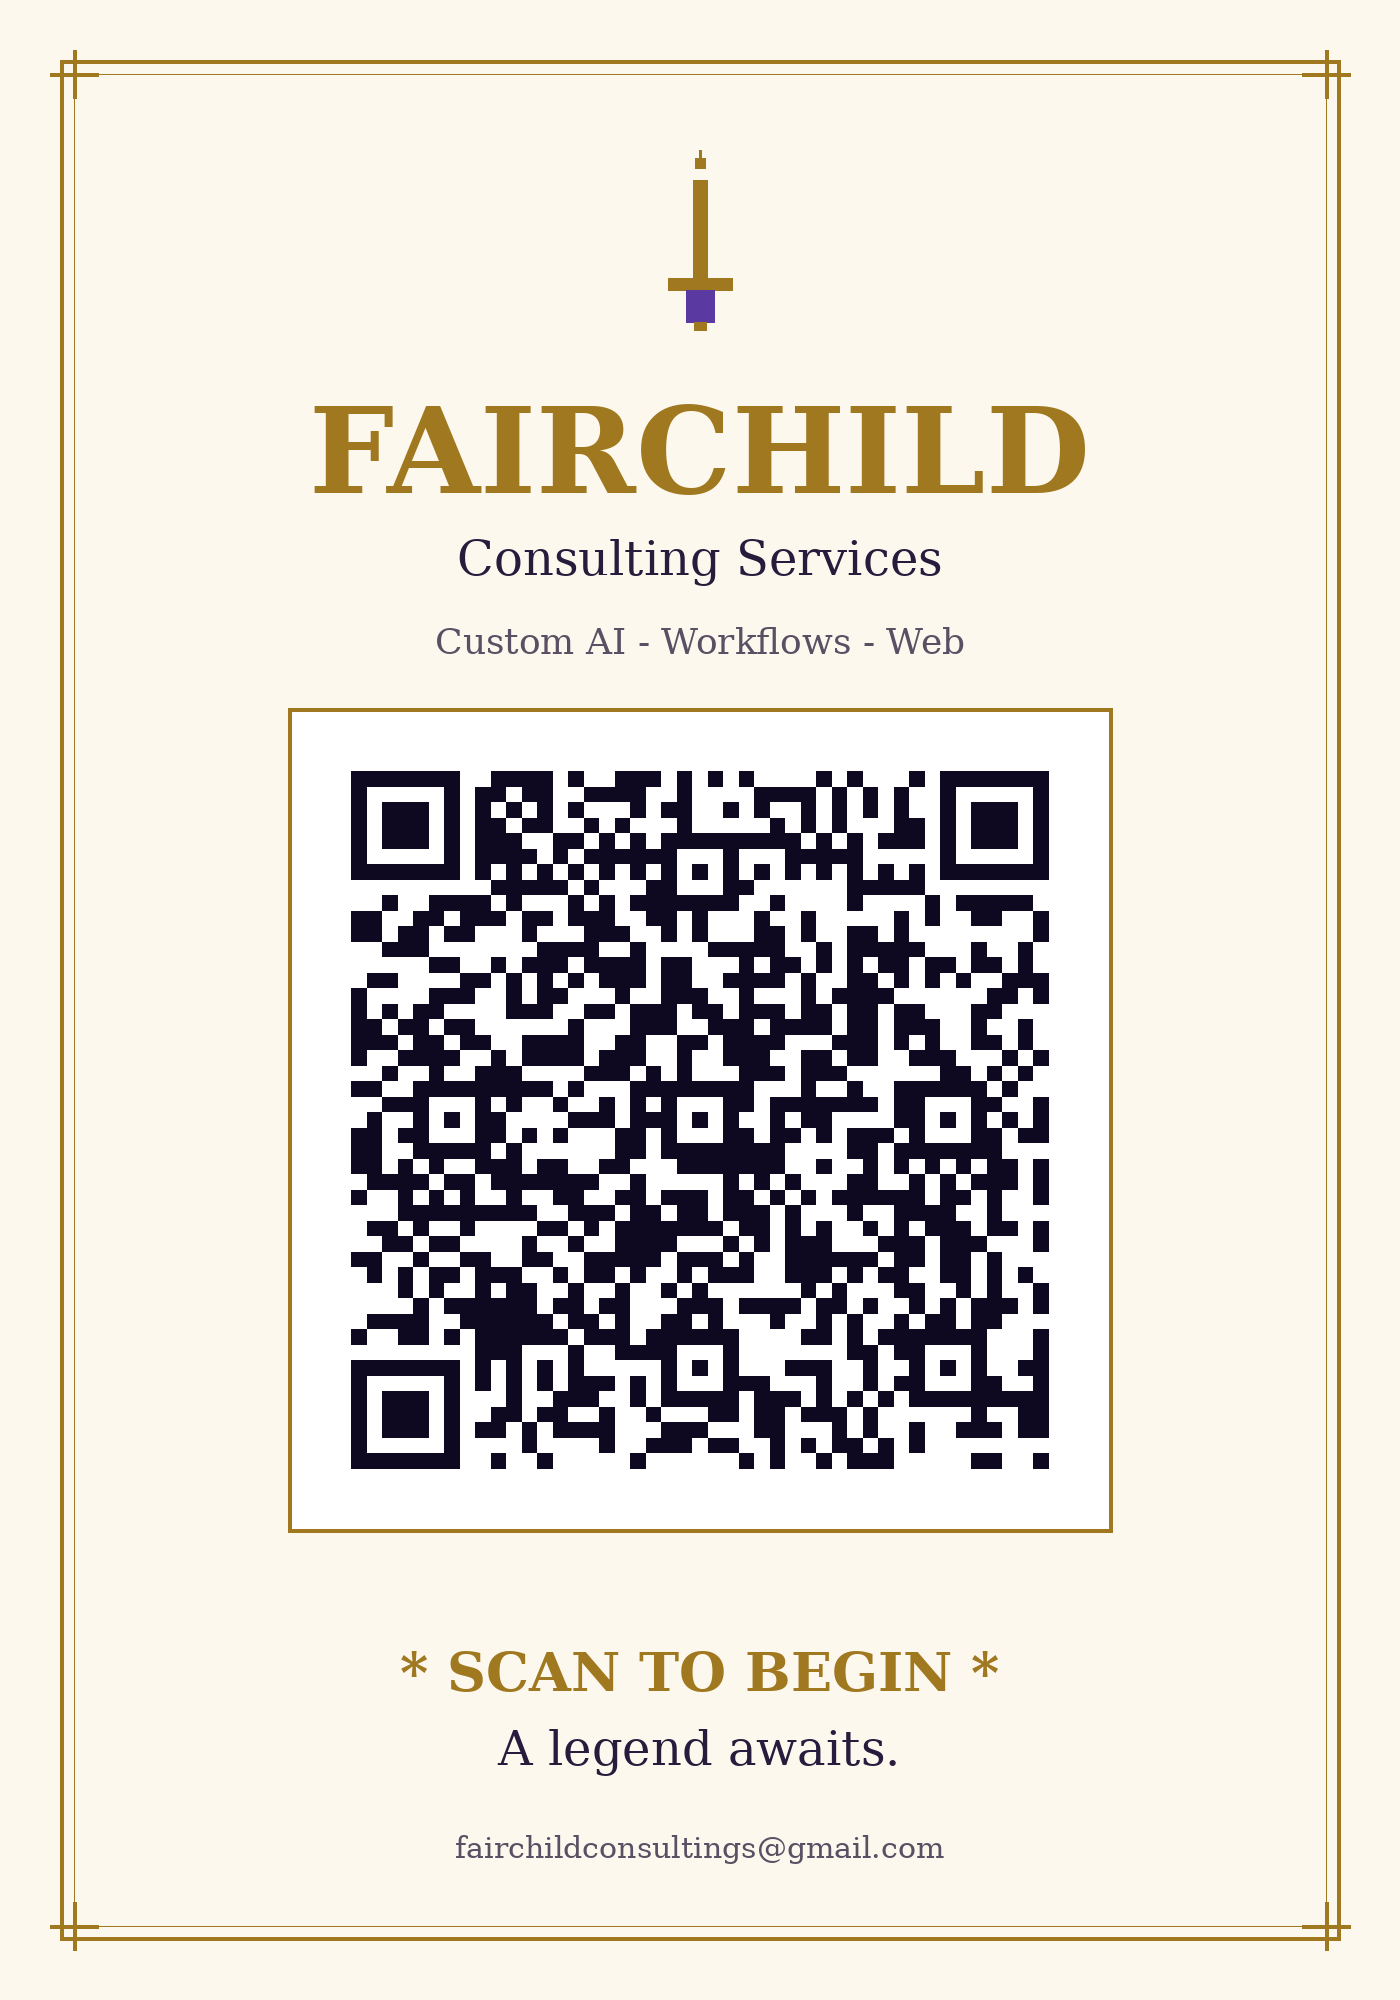
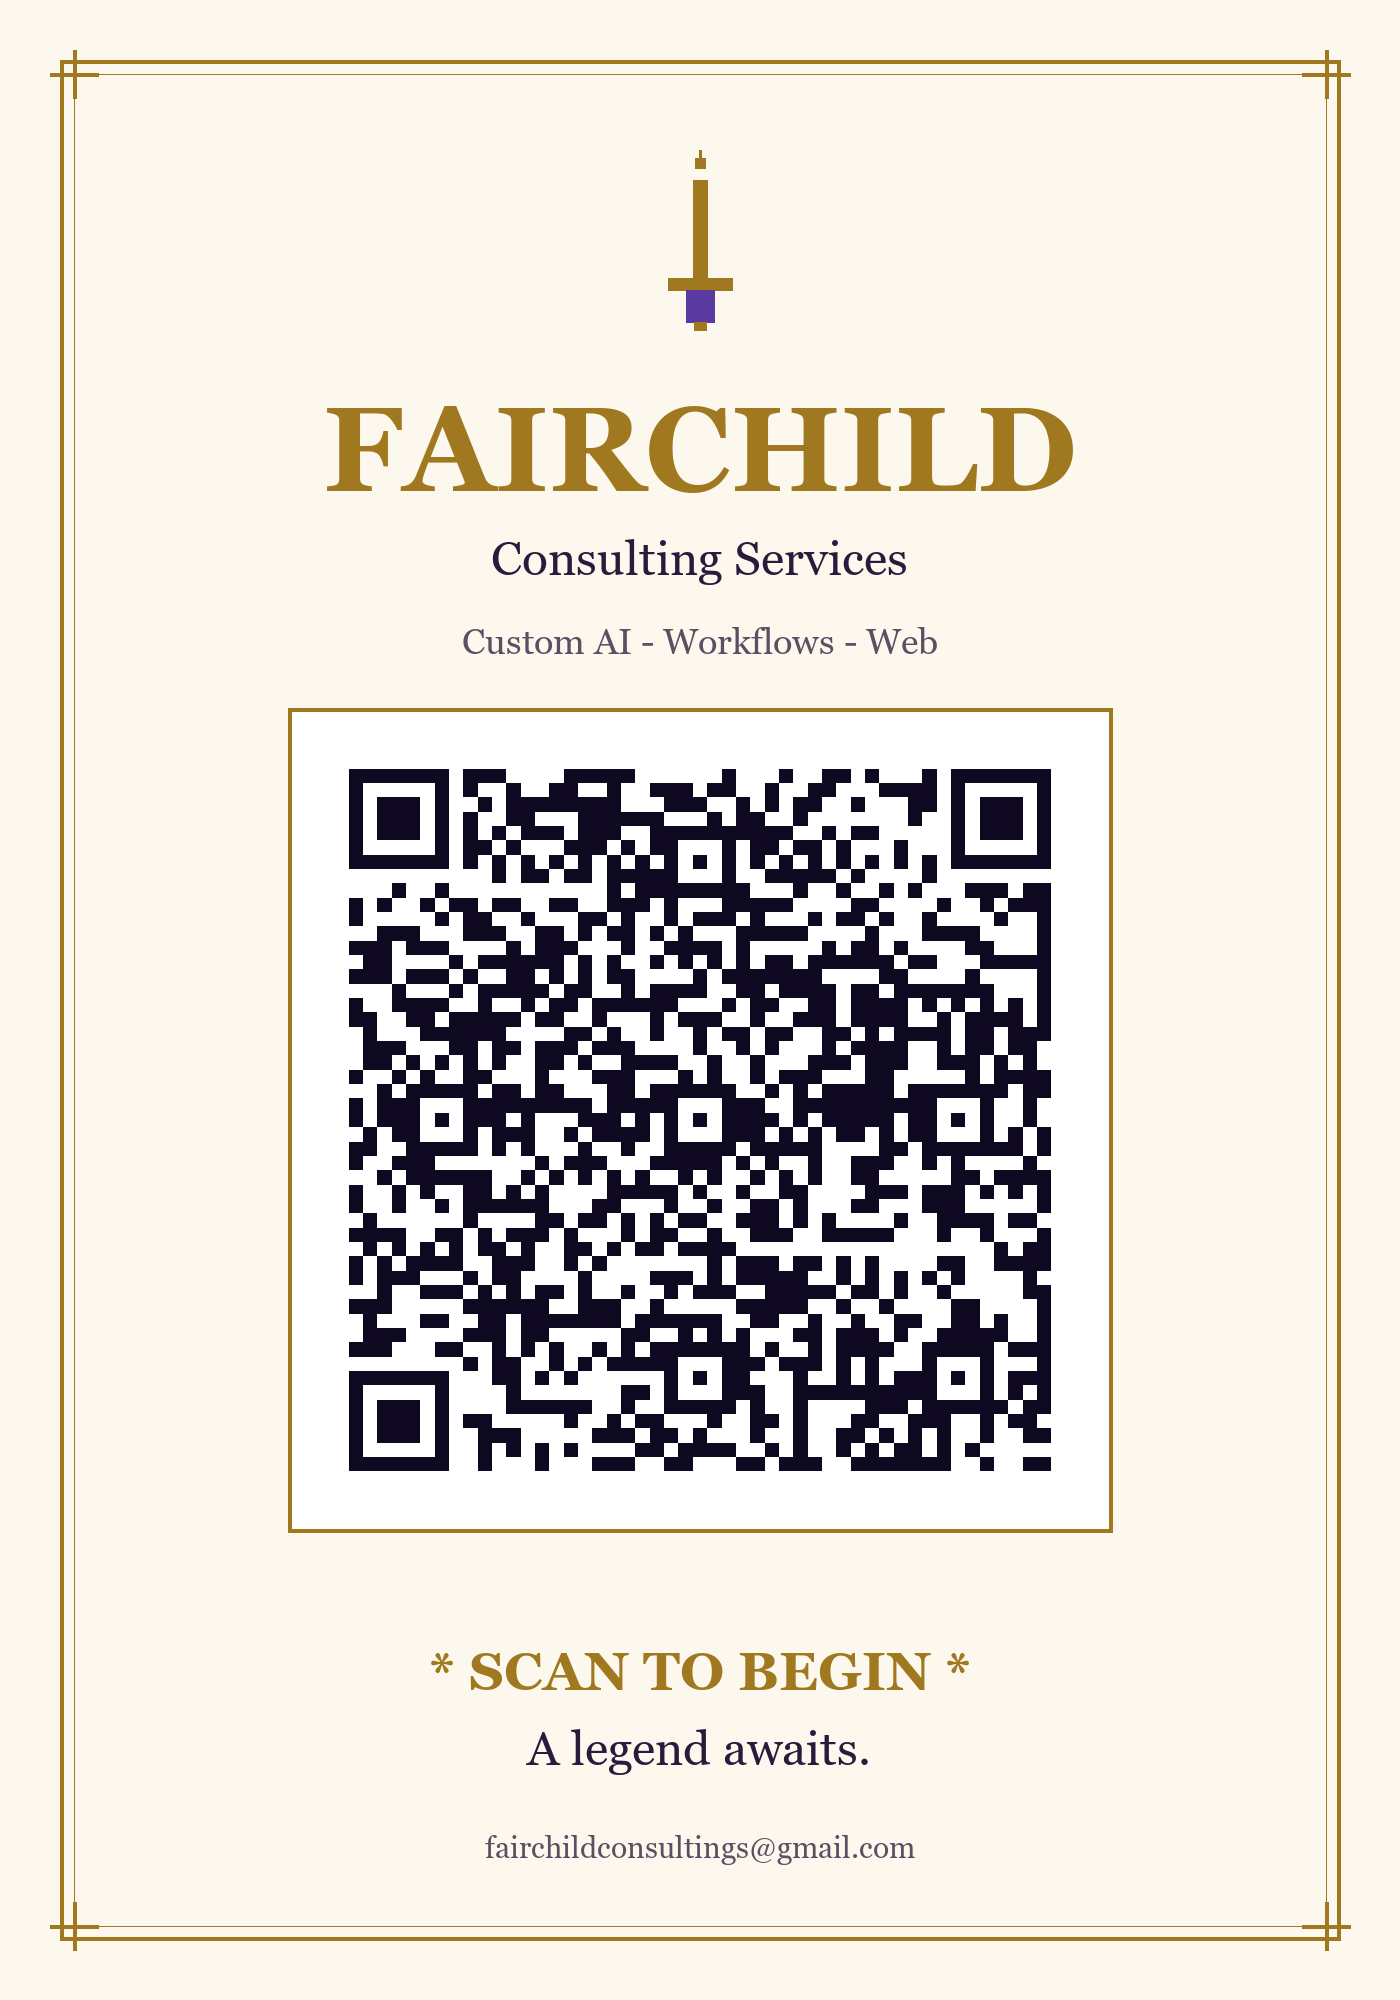
QR codes encode live URL; Windows-friendly script

Changed region(s): [[0.2457, 0.372, 0.7679, 0.744], [0.215, 0.186, 0.7986, 0.341], [0.2764, 0.806, 0.7064, 0.93]]

diff --git a/scripts/make_qr.py b/scripts/make_qr.py
@@ -13,10 +13,11 @@ import qrcode
 from PIL import Image, ImageDraw, ImageFont
 
 # ===== EDIT ME after deploying =====
-URL_TO_ENCODE = "https://YOUR-USERNAME.github.io/fairchild-consulting/intro.html"
+URL_TO_ENCODE = "https://fairchildconsultingservices.github.io/fairchild-consulting/intro.html"
 # ====================================
 
-OUT_DIR = Path("/sessions/elegant-determined-bell/mnt/Portfolio Webpage - Fairchild Consulting Services/assets")
+SCRIPT_DIR = Path(__file__).resolve().parent
+OUT_DIR = SCRIPT_DIR.parent / "assets"
 OUT_DIR.mkdir(parents=True, exist_ok=True)
 
 GOLD     = (240, 193, 74, 255)
@@ -49,10 +50,22 @@ print("qr.png        ->", qr_img.size)
 
 def load_font(size, bold=False):
     paths = [
+        # Windows (most likely path for this user)
+        r"C:\Windows\Fonts\georgiab.ttf" if bold else r"C:\Windows\Fonts\georgia.ttf",
+        r"C:\Windows\Fonts\timesbd.ttf" if bold else r"C:\Windows\Fonts\times.ttf",
+        r"C:\Windows\Fonts\arialbd.ttf" if bold else r"C:\Windows\Fonts\arial.ttf",
+        # macOS
+        "/Library/Fonts/Georgia Bold.ttf" if bold else "/Library/Fonts/Georgia.ttf",
+        "/System/Library/Fonts/Supplemental/Georgia Bold.ttf" if bold
+        else "/System/Library/Fonts/Supplemental/Georgia.ttf",
+        # Linux (DejaVu)
         "/usr/share/fonts/truetype/dejavu/DejaVuSerif-Bold.ttf" if bold
         else "/usr/share/fonts/truetype/dejavu/DejaVuSerif.ttf",
         "/usr/share/fonts/truetype/dejavu/DejaVuSans-Bold.ttf" if bold
         else "/usr/share/fonts/truetype/dejavu/DejaVuSans.ttf",
+        # Pillow name lookup (last resort)
+        "Georgia Bold" if bold else "Georgia",
+        "Arial Bold" if bold else "Arial",
     ]
     for p in paths:
         try:
